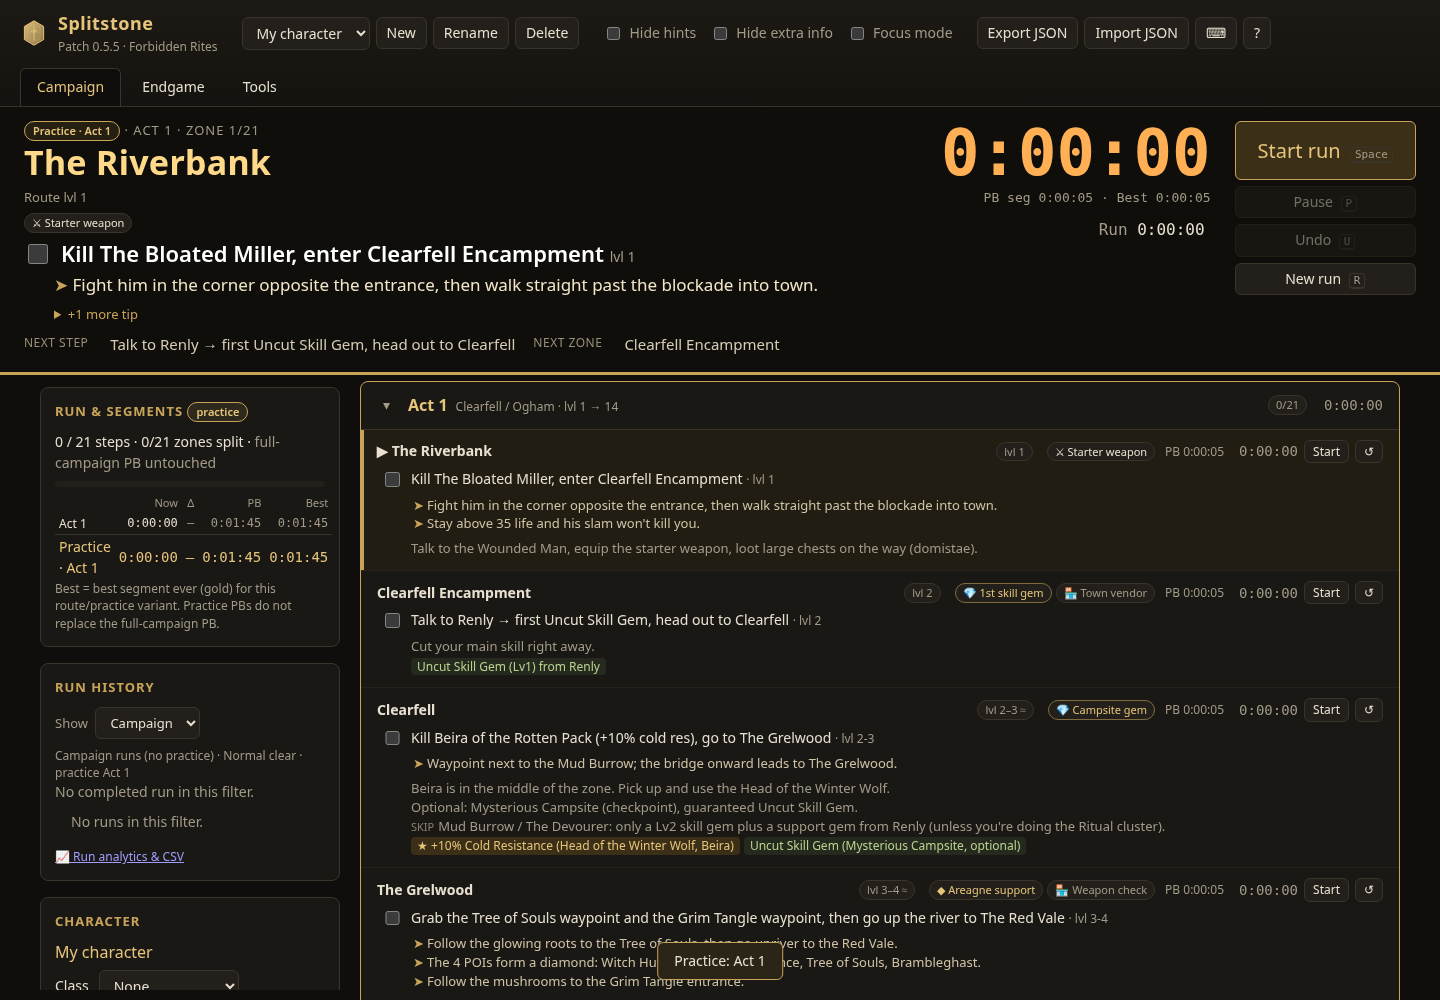
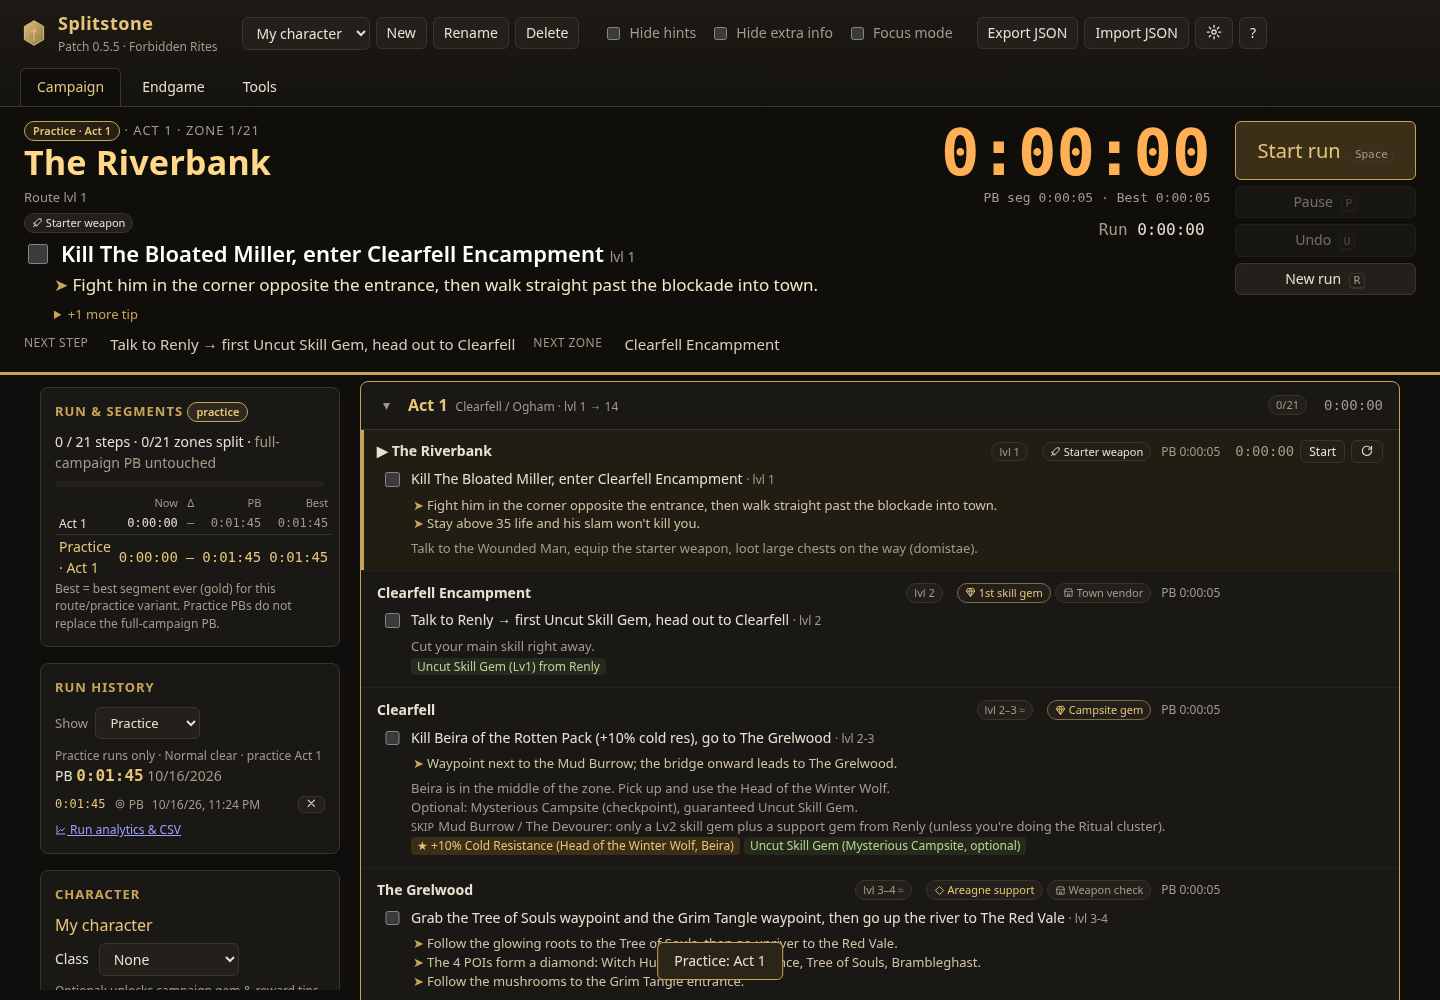
Changelog and README for 1.2.0; refresh screenshots

diff --git a/CHANGELOG.md b/CHANGELOG.md
@@ -9,6 +9,19 @@
 - Imported ghosts keep only zone times for zones Splitstone knows, with capped names and sizes (16 KB codes, 64 KB once expanded, 5 MB export files). Names are escaped wherever they're shown.
 - The ghost panel hides in Focus mode; the one-line summary under the timer stays. The in-game overlay is unchanged.
 - No storage migration: 1.1 saves load as they are and pick up the new fields on the next save.
+- The ghost line under the timer is larger, with the zone in bold. Racing your PB it shows only where the ghost is, since the delta is already beside the timer. Deltas also say "ahead" or "behind" in words, so they don't rely on red and green.
+- After your first PB, a one-time note points to the ghost race in Settings.
+- First run: a dismissible tip card explains splits and practice, practice runs end on "Practice complete", and run history switches to the matching filter after a run.
+- Desktop overlay: the default spot is left of the PoE2 minimap instead of on top of it, with a one-time hint on how to move it. New overlay text size option (Small, Medium, Large).
+- Accessibility: every theme meets WCAG AA contrast (Parchment and Ember were below it), a "Skip to timer" link, labelled dropdowns, and no animation or smooth scrolling when the system asks for reduced motion.
+- Settings and Help: consistent headings, and the dialogs are centred with the page dimmed behind them. Reset hotkeys to defaults now asks first.
+- Emoji icons replaced with one inline SVG icon set.
+- Less clutter on desktop: per-zone timer and practice buttons show on hover, on focus or for the current zone, and at 1366px wide or less the header's toggles and import/export sit behind the ⋯ menu.
+- Imports and saves are checked field by field. PoB build summaries are rebuilt from known fields and escaped, malformed history entries are skipped, undo history isn't imported, and character names lose invisible and direction-control characters. Prototype keys like `__proto__` can't be used as character ids.
+- Import asks before replacing a character that already exists here or applying the file's settings, and refuses files over 10 MB.
+- Timers never go negative. If the system clock jumps backwards, running timers keep the time already counted.
+- A ghost code whose total doesn't match its zone times is rejected.
+- 1.0 saves with a map in progress keep that map's timer when migrated.
 
 ## 1.1.0 (2026-10-16)
 

diff --git a/README.md b/README.md
@@ -89,7 +89,7 @@ My goal is to have Splitstone updated for PoE2 1.0 within the first week after i
 
 **Shipped in 1.1.0:** endgame tracking (map runs, sessions, atlas progress, optional auto-detect) and a tools tab.
 
-**Coming in 1.2.0:** ghost race against your PB, best segments, a past run or a friend's shared ghost.
+**Shipped in 1.2.0:** ghost race against your PB, best segments, a past run or a friend's shared ghost, plus overlay text size and accessibility fixes.
 
 **Next:**
 
